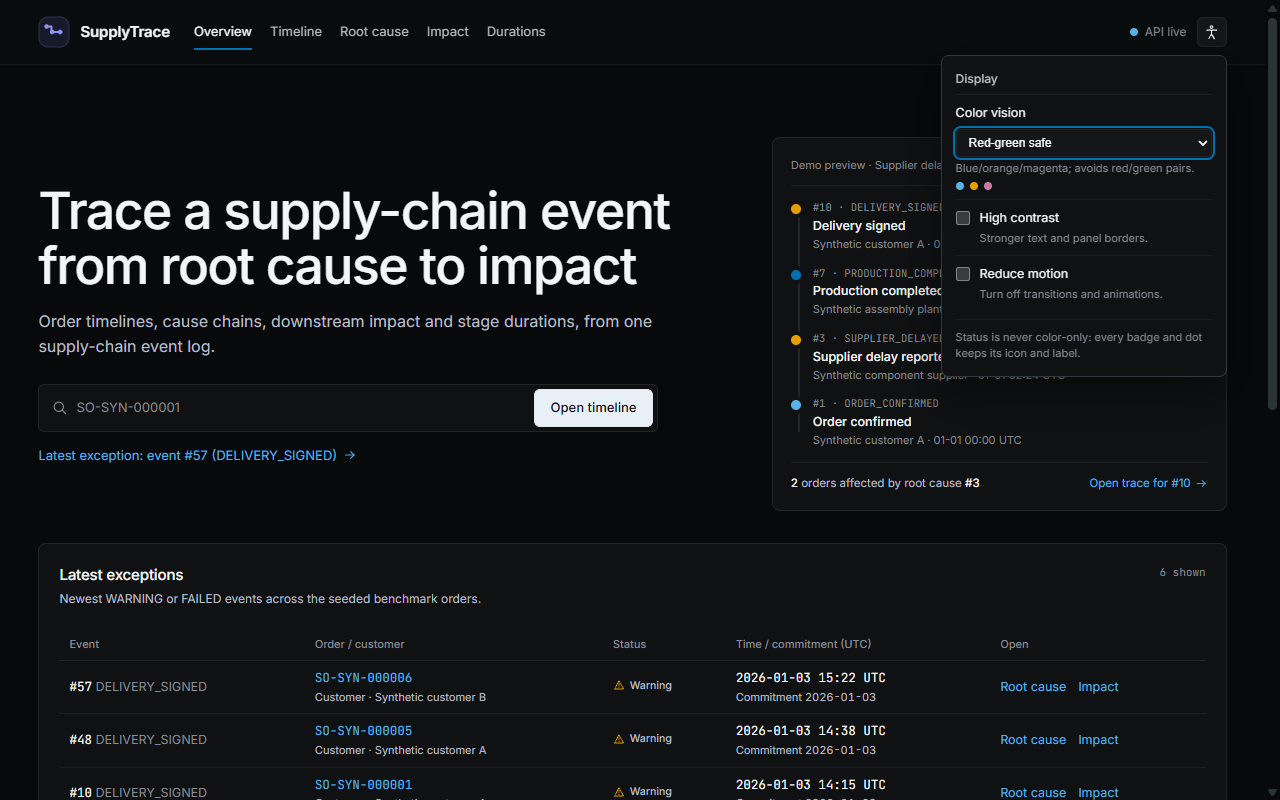
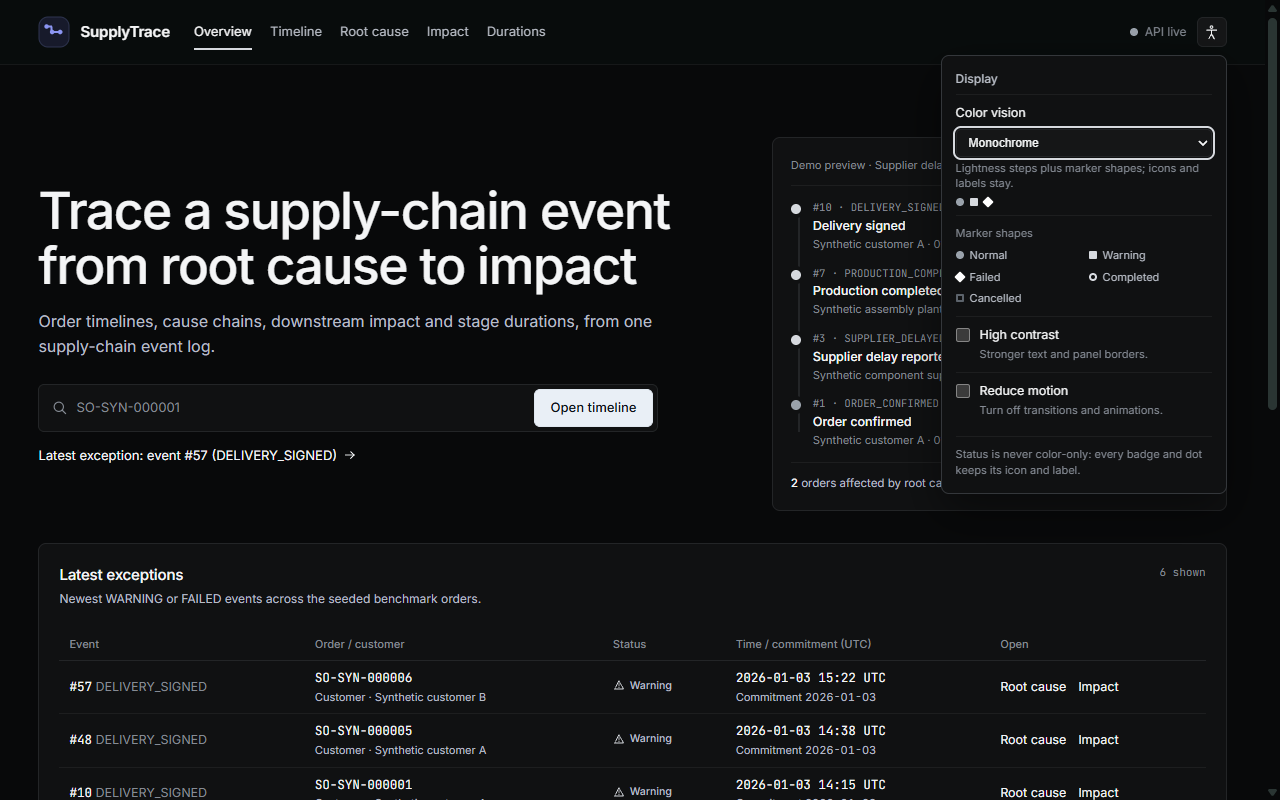
feat(frontend): explain monochrome marker shapes
Show a Marker shapes legend in the Display menu when Monochrome is selected, mapping normal/warning/failed/completed/cancelled to their circle/square/diamond/ring markers. Update the menu screenshot.

diff --git a/frontend/src/components/DisplayMenu.tsx b/frontend/src/components/DisplayMenu.tsx
@@ -83,6 +83,14 @@ function applyPreferences(preferences: DisplayPreferences) {
   set('data-reduce-motion', preferences.reduceMotion)
 }
 
+const MONO_MARKERS: Array<{ tone: string; label: string }> = [
+  { tone: 'good', label: 'Normal' },
+  { tone: 'warning', label: 'Warning' },
+  { tone: 'critical', label: 'Failed' },
+  { tone: 'info', label: 'Completed' },
+  { tone: 'muted', label: 'Cancelled' },
+]
+
 const CHECKBOX_OPTIONS: Array<{
   key: 'highContrast' | 'reduceMotion'
   label: string
@@ -205,6 +213,23 @@ export function DisplayMenu() {
               <span className="display__swatch display__swatch--critical" />
             </span>
           </div>
+
+          {preferences.colorVision === 'monochrome' ? (
+            <div className="display__legend" aria-label="Monochrome marker shapes">
+              <p className="display__legend-title">Marker shapes</p>
+              <ul>
+                {MONO_MARKERS.map((marker) => (
+                  <li key={marker.tone}>
+                    <span
+                      className={`display__marker display__marker--${marker.tone}`}
+                      aria-hidden="true"
+                    />
+                    {marker.label}
+                  </li>
+                ))}
+              </ul>
+            </div>
+          ) : null}
 
           {CHECKBOX_OPTIONS.map((option) => (
             <label className="display__option" key={option.key}>

diff --git a/frontend/src/styles.css b/frontend/src/styles.css
@@ -425,6 +425,63 @@ button {
   margin-top: 6px;
 }
 
+.display__legend {
+  padding: 9px 0;
+  border-top: 1px solid var(--border-soft);
+}
+
+.display__legend-title {
+  margin-bottom: 6px;
+  color: var(--muted);
+  font-size: 11px;
+}
+
+.display__legend ul {
+  display: grid;
+  grid-template-columns: 1fr 1fr;
+  gap: 5px 10px;
+}
+
+.display__legend li {
+  display: flex;
+  align-items: center;
+  gap: 6px;
+  color: var(--text-2);
+  font-size: 11px;
+}
+
+.display__marker {
+  flex-shrink: 0;
+  width: 8px;
+  height: 8px;
+}
+
+.display__marker--good {
+  border-radius: 50%;
+  background: var(--good);
+}
+
+.display__marker--warning {
+  border-radius: 1px;
+  background: var(--warning);
+}
+
+.display__marker--critical {
+  border-radius: 1px;
+  background: var(--critical);
+  transform: rotate(45deg);
+}
+
+.display__marker--info {
+  border-radius: 50%;
+  box-shadow: inset 0 0 0 2px var(--accent);
+}
+
+.display__marker--muted {
+  border-radius: 1px;
+  box-shadow: inset 0 0 0 2px var(--cancelled);
+}
+
 .display__option {
   display: grid;
   grid-template-columns: 16px minmax(0, 1fr);

diff --git a/frontend/README.md b/frontend/README.md
@@ -87,7 +87,7 @@ Mock 模式只包含供应商延期路径（订单 `SO-SYN-000001` / `SO-SYN-000
 - 加载时保留旧画面（不闪骨架）；404/422/503/504 分别给出说明与重试入口。
 - 1920×1080 下列表、图表和 8 列影响图无文字截断；窄屏下时间线行、筛选表单和 metrics 条自动堆叠，最新异常表改为三行卡片式布局，场景表改为分行显示，影响图可横向滚动（容器可键盘聚焦）；375 宽度下导航五项完整显示，首页标题与预览不截断。
 - 窄屏最新异常表为每个单元格提供隐藏列名（Event / Order / Status / Time / Open），读屏不会丢失字段含义；首页同一订单的时间线请求在预览、demo readiness 和最新异常面板之间合并为一次。
-- 右上角 `Display` 菜单提供 `Color vision` 四档：`Standard`、`Red-green safe`（蓝/橙/品红）、`Blue-yellow safe`（绿/朱红/品红）、`Monochrome`（明度层级）；另有 `High contrast` 和 `Reduce motion`。偏好写入 localStorage，状态仍带图标与文字标签。
+- 右上角 `Display` 菜单提供 `Color vision` 四档：`Standard`、`Red-green safe`（蓝/橙/品红）、`Blue-yellow safe`（绿/朱红/品红）、`Monochrome`（明度层级 + 圆/方/菱形/空心标记，菜单内附 Marker shapes 图例）；另有 `High contrast` 和 `Reduce motion`。偏好写入 localStorage，状态仍带图标与文字标签。
 - 根因页 Event context 的 Order / line 优先显示订单号（基准场景映射或 `?order=` 上下文），只有未知事件才退回内部 `#id`；从受影响订单打开导航时，Root cause / Impact 指向该场景的根因事件。
 - 影响图在每条订单 lane 的起始卡片上方标注订单号，并在面板说明中按自上而下列出订单，长图滚动时也能从起点识别每条链。
 - 最新异常表在订单号下显示客户、在时间下显示承诺日期，便于先按客户和承诺做分诊；耗时页主指标为 `Slowest P90`，平均值保留在副文案和图表中。
@@ -120,6 +120,6 @@ frontend/
 - `npm test` 通过：8 个测试文件、43 项测试（ID 解析、日期解析、阶段统计、图深度/选中节点、演示场景与 `benchmark_cases.json` 对齐、最新异常排序、时间线倒序、导航上下文解析与持久化、时间线请求合并与单调用方取消、网络/503 重试与 404 不重试）。
 - 四个视图与供应商延期路径已在本机真实 FastAPI + PostgreSQL 上逐页截图检查（1920×1080、1280、768、512、375 宽度）；另外两个基准场景的接口返回值经 API 验证。
 - 在 100,000 事件库（seed 5003，10,989 订单）上复测：基准场景的订单时间线、根因链、影响节点数和受影响订单与 57 事件库完全一致；耗时页显示 10,989 个样本（P90 15.43 h / 平均 13.06 h）；随机订单 `SO-SYN-010989` 和随机事件 `#38546` 可正常深链；1280/375 无控制台错误或横向溢出。
-- 路由级代码分割：主包 294.7 kB（gzip 92.7 kB），耗时页 378.1 kB（gzip 108.9 kB，含 Recharts）。
+- 路由级代码分割：主包 295.2 kB（gzip 92.8 kB），耗时页 378.1 kB（gzip 108.9 kB，含 Recharts）。
 - 数据 GET 请求对网络错误和 502/503/504 自动重试一次（约 300 ms 后）；懒加载 chunk 失效时 `ErrorBoundary` 会自动刷新一次，避免开发期 HMR 或部署切换留下错误页。503/504 错误页已用受控响应拦截截图验证，错误码与 HTTP 状态均来自统一信封。
 - API 契约与错误码以 [docs/part3/API_CONTRACT.md](../docs/part3/API_CONTRACT.md) 为准；字段未在前端猜测或改名。

diff --git a/docs/part4/README.md b/docs/part4/README.md
@@ -48,12 +48,12 @@ Precision Dark：中性石墨表面、发丝边框、单一蓝色强调色；Nor
 - 窄屏卡片为每个单元格保留隐藏列名（Event / Order / Status / Time / Open），读屏仍能识别字段；首页预览、demo readiness 与最新异常面板共用同一次时间线请求（六个订单共六次请求）。
 - 已在 100,000 事件库（seed 5003，10,989 订单）复测四个视图：三个基准场景的订单时间线、根因链和影响订单与 57 事件库完全一致；耗时页显示 10,989 个样本；随机订单和随机事件可深链；1280/375 无溢出或控制台错误。
 - 影响图在每条订单 lane 的起始卡片上方标注订单号，并按自上而下的顺序在说明中列出，避免把并行的订单链误读为重复事件。
-- 顶栏 `Display` 菜单提供 `Color vision` 四档（Standard / Red-green safe / Blue-yellow safe / Monochrome）、高对比度和减少动效，偏好保存在本地；状态徽章和圆点始终带图标与文字，不依赖单一颜色。
+- 顶栏 `Display` 菜单提供 `Color vision` 四档（Standard / Red-green safe / Blue-yellow safe / Monochrome）、高对比度和减少动效，偏好保存在本地；Monochrome 同时用圆/方/菱形/空心标记并在菜单内给出 Marker shapes 图例；状态徽章和圆点始终带图标与文字，不依赖单一颜色。
 - 从受影响订单进入导航时，Root cause / Impact 指向该场景的根因事件（例如订单 2 指向 `#3`，不再指向订单 1 的 `#10`）；根因页 Event context 显示订单号而非只有内部 `#id`。
 - 最新异常表补充客户与承诺日期（订单号/时间下方副行），耗时页主指标改为 `Slowest P90`，平均值保留在副文案和图表中。
 - 导航以 sessionStorage 记住最近一组有效上下文（订单、事件及其所属订单）；从事件页回到 Overview 后，Timeline / Root cause / Impact 不再跳回 demo 默认值，事件导航链接也继续带 `?order=`。从事件进入订单时间线后，该订单的 Root cause / Impact 保持刚看过的事件；直接打开订单时由时间线发布该订单最新异常作为锚点，不会落到另一个订单的场景根事件。
 - 导航逻辑不绑定具体订单号/事件号：订单页来自时间线响应，事件页来自 URL；demo 订单列表、场景映射和默认值集中在 `demo.ts`。接入真实订单时把服务端订单列表传给 `useRecentExceptions(orderNumbers)` 并替换演示默认值即可；不带 `?order=` 的真实事件深链还需后端在事件响应中补 `order_number`。
-- `npm run typecheck`、`npm run build`、`npm test` 通过（8 个测试文件、43 项测试）；路由级代码分割后主包 294.7 kB（gzip 92.7 kB），耗时页 378.1 kB（gzip 108.9 kB，含 Recharts）。
+- `npm run typecheck`、`npm run build`、`npm test` 通过（8 个测试文件、43 项测试）；路由级代码分割后主包 295.2 kB（gzip 92.8 kB），耗时页 378.1 kB（gzip 108.9 kB，含 Recharts）。
 - 数据 GET 请求对网络错误和 502/503/504 自动重试一次（约 300 ms 后）；懒加载 chunk 失效时 `ErrorBoundary` 自动刷新一次，减少偶发错误页需要手动刷新的情况。
 
 ## 三个基准场景的界面证据

diff --git a/docs/part4/VIDEO_STORYBOARD.md b/docs/part4/VIDEO_STORYBOARD.md
@@ -42,7 +42,7 @@ Every action is repeatable against the real API. Before recording, confirm the h
 
 ## Shot 6: Error and narrow states (optional, about 20 seconds)
 
-- Action: open `/orders/DOES-NOT-EXIST` to show the 404 explanation and retry; switch to 1280 width to show horizontal scrolling in the impact graph; switch to 768/512/375 width to show the stacked scenario table, the card layout of the latest-exceptions rows and single-column metrics; open the top-right `Display` menu and switch `Color vision` between Red-green safe, Blue-yellow safe and Monochrome to show that status still keeps its icon and label.
+- Action: open `/orders/DOES-NOT-EXIST` to show the 404 explanation and retry; switch to 1280 width to show horizontal scrolling in the impact graph; switch to 768/512/375 width to show the stacked scenario table, the card layout of the latest-exceptions rows and single-column metrics; open the top-right `Display` menu and switch `Color vision` between Red-green safe, Blue-yellow safe and Monochrome; in Monochrome, point to the Marker shapes legend and note that status still keeps its icon and label.
 - Voice-over: loading, empty, 404/422/503/504 all have explicit states; 1920x1080 has no clipped text, and narrow layouts stack or scroll; the display menu provides red-green-safe, blue-yellow-safe and monochrome palettes, high contrast and reduced motion.
 - Screenshots: `notfound-1280.png`, `impact-1280.png`, `timeline-768.png`, `home-512.png`, `home-512-recent.png`, `home-375.png`, `display-menu-1280.png`, `colorblind-timeline-1920.png`, `blue-yellow-timeline-1920.png`, `monochrome-timeline-1920.png`
 
